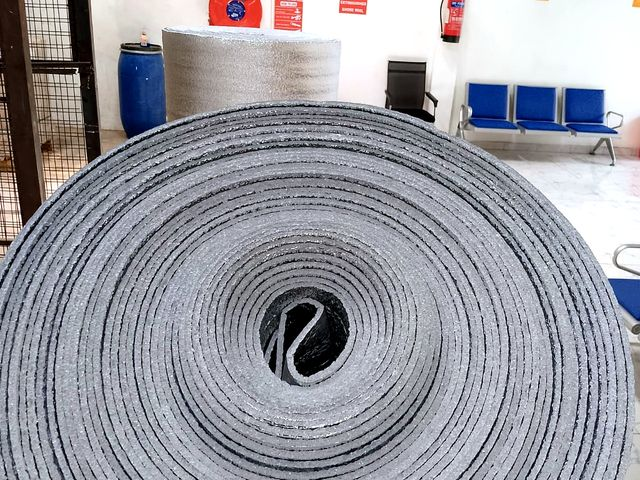
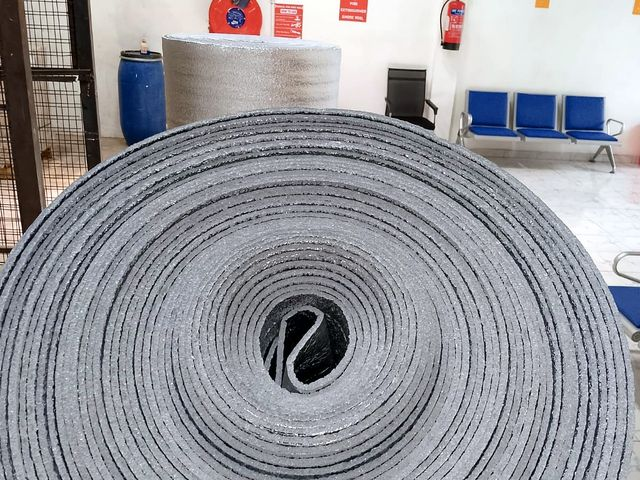
feat(products): rebuild catalogue from KENWORKS PDF with real photos
- Replace 4 generic categories with 6 catalogue-aligned ones (Ceramic Fibre;
  Mineral Wool & Fibreglass; Foam, Roof & Board; Tapes, Foil & Sealants;
  Refractory Bricks & Cements; Acoustic, Safety & Sealing)
- 36 products with accurate catalogue descriptions + technical specs
  (temperature, density, dimensions) and per-product photos extracted from
  the catalogue PDF
- Product type gains image + specs; product cards now render the photo + a
  spec list; featuredProducts + category headers use the new images
- Remove 10 orphaned old product images

Verified: tsc + lint clean, build passes (36 routes), e2e 25 passed

diff --git a/src/lib/site.ts b/src/lib/site.ts
@@ -381,6 +381,8 @@ export type Product = {
   name: string;
   desc: string;
   useCases: string[];
+  image?: string; // /public path to the product photo
+  specs?: string[]; // short technical specs (temperature, density, dimensions)
 };
 
 export type ProductCategory = {
@@ -395,81 +397,110 @@ export type ProductCategory = {
 // Featured product photos (from the materials catalogue) for the products gallery.
 export const featuredProducts: { name: string; image: string }[] = [
   { name: "Ceramic Fibre Blanket", image: "/images/products/ceramic-fibre-blanket.jpg" },
-  { name: "High-Density Rockwool", image: "/images/products/rockwool.jpg" },
-  { name: "Fibreglass Insulation", image: "/images/products/fibreglass.jpg" },
-  { name: "Armaflex Insulation", image: "/images/products/armaflex.jpg" },
-  { name: "Calcium Silicate Boards", image: "/images/products/calcium-silicate.jpg" },
-  { name: "Refractory Fire Bricks", image: "/images/products/fire-bricks.jpg" },
+  { name: "High-Density Rockwool", image: "/images/products/rockwool-roll.jpg" },
+  { name: "Fibreglass Insulation", image: "/images/products/fibreglass-roll.jpg" },
+  { name: "Armaflex Insulation", image: "/images/products/armaflex-sheet.jpg" },
+  { name: "Calcium Silicate Board", image: "/images/products/calcium-silicate-board.jpg" },
+  { name: "40% Alumina Firebricks", image: "/images/products/firebrick-40.jpg" },
+  { name: "Refractory Castable Maxheat-A", image: "/images/products/castable-maxheat-a.jpg" },
   { name: "Polyethylene Roof Insulation", image: "/images/products/pe-roof-insulation.jpg" },
-  { name: "Aluminium & Thermal Tapes", image: "/images/products/aluminium-tape.jpg" },
 ];
 
 export const productCategories: ProductCategory[] = [
   {
-    slug: "thermal-insulation",
-    group: "Thermal Insulation",
-    icon: "shield",
-    image: "/images/products/cat-thermal-insulation.jpg",
-    blurb:
-      "High-performance insulation to control heat, save energy and protect personnel — from boilers and pipework to roofs and ducting.",
-    items: [
-      { name: "Rockwool", desc: "Mineral-wool insulation for high-temperature thermal and acoustic insulation.", useCases: ["Boiler & pipe lagging", "Furnace insulation", "Acoustic walls"] },
-      { name: "Fiberglass", desc: "Glass-wool insulation for thermal and acoustic applications.", useCases: ["Ducting", "Ovens", "Roofs"] },
-      { name: "Ceramic Fiber", desc: "Lightweight high-temperature ceramic fibre insulation up to ~1260°C.", useCases: ["Furnaces", "Kilns", "Heat treatment"] },
-      { name: "Ceramic Fiber Boards", desc: "Rigid ceramic-fibre boards for furnace and kiln linings.", useCases: ["Furnace linings", "Back-up insulation"] },
-      { name: "Ceramic Fiber Blanket", desc: "Flexible ceramic-fibre blanket for high-heat insulation and wrapping.", useCases: ["Furnace wrapping", "Expansion joints"] },
-      { name: "Ceramic Fiber Cloth", desc: "Woven ceramic-fibre cloth for high-temperature gasketing and covers.", useCases: ["Heat shields", "Removable covers"] },
-      { name: "Ceramic Fiber Rope", desc: "Braided ceramic-fibre rope for sealing high-temperature joints.", useCases: ["Furnace door seals", "Boiler seals"] },
-      { name: "Ceramic Fiber Tape", desc: "Ceramic-fibre tape for wrapping pipes and sealing high-heat gaps.", useCases: ["Pipe wrapping", "Joint sealing"] },
-      { name: "Armaflex", desc: "Flexible closed-cell elastomeric insulation for HVAC and refrigeration lines.", useCases: ["Chilled-water pipes", "Refrigeration lines", "Condensation control"] },
-      { name: "Polyethylene Roof Insulation", desc: "Reflective polyethylene foam insulation for roofs and walls.", useCases: ["Roof insulation", "Heat reflection"] },
-      { name: "Styrofoam", desc: "Rigid expanded/extruded polystyrene insulation boards.", useCases: ["Cold rooms", "Wall & roof insulation"] },
-      { name: "Calcium Silicate Boards", desc: "High-temperature, load-bearing calcium-silicate insulation board.", useCases: ["Boiler insulation", "Fire protection", "High-temp pipe support"] },
-      { name: "Acoustic Insulation", desc: "Sound-absorbing insulation for noise control.", useCases: ["Generator rooms", "Plant rooms", "Studios"] },
-      { name: "Vermiculite", desc: "Lightweight mineral used for loose-fill insulation and refractory mixes.", useCases: ["Loose-fill insulation", "Refractory concrete"] },
-      { name: "Thermal Tapes", desc: "High-temperature tapes for wrapping and sealing hot surfaces.", useCases: ["Pipe wrapping", "Heat sealing"] },
-      { name: "Aluminium Tapes", desc: "Foil tapes for sealing and finishing insulation systems.", useCases: ["Vapour sealing", "Insulation finishing"] },
-    ],
-  },
-  {
-    slug: "refractory-high-heat",
-    group: "Refractory & High-Heat",
+    slug: "ceramic-fibre",
+    group: "Ceramic Fibre Insulation",
     icon: "flame",
-    image: "/images/products/cat-refractory-high-heat.jpg",
+    image: "/images/products/cat-ceramic-fibre.jpg",
     blurb:
-      "Refractory materials engineered to withstand extreme heat in furnaces, kilns, boilers and foundries.",
+      "High-purity alumina-silica ceramic fibre for extreme heat — furnaces, kilns and heat-treatment, rated to 1260°C.",
     items: [
-      { name: "Refractory Castables", desc: "Pourable refractory cement for casting furnace and kiln linings.", useCases: ["Furnace linings", "Burner blocks", "Repairs"] },
-      { name: "Refractory Mortars", desc: "High-temperature mortar for laying and bonding refractory bricks.", useCases: ["Brick laying", "Joint sealing"] },
-      { name: "Fire Bricks", desc: "Dense fire-clay bricks for high-temperature furnace and kiln linings.", useCases: ["Furnaces", "Kilns", "Boilers"] },
-      { name: "Acid Resistant Bricks", desc: "Chemically resistant bricks for corrosive and acidic environments.", useCases: ["Chemical plants", "Effluent works", "Linings"] },
-      { name: "Insulating Bricks", desc: "Lightweight insulating fire bricks for back-up and hot-face insulation.", useCases: ["Furnace insulation", "Heat treatment"] },
+      { name: "Ceramic Fibre Blanket", desc: "Flexible, lightweight alumina-silica blanket for high-temperature insulation and wrapping.", specs: ["1260°C", "128 kg/m³", "7620×610×25mm / 3600×610×50mm"], useCases: ["Furnace wrapping", "Kiln insulation", "Expansion joints"], image: "/images/products/ceramic-fibre-blanket.jpg" },
+      { name: "Ceramic Fibre Board", desc: "Rigid alumina-silica panel offering thermal resistance and structural strength.", specs: ["1260°C", "320 kg/m³", "600×300×50mm"], useCases: ["Furnace linings", "Fire protection", "Back-up insulation"], image: "/images/products/ceramic-fibre-board.jpg" },
+      { name: "Non-Asbestos Ceramic Fibre Tape", desc: "Heat-resistant woven tape for wrapping and sealing pipes, flanges and furnace doors.", specs: ["1260°C", "10m × 3mm × 50mm"], useCases: ["Pipe wrapping", "Flange sealing", "Furnace doors"], image: "/images/products/ceramic-fibre-tape.jpg" },
+      { name: "Ceramic Fibre Rope", desc: "Braided round & square rope for sealing high-temperature joints in kilns and stoves.", specs: ["1260°C", "Thickness 6–50mm"], useCases: ["Furnace door seals", "Boiler seals", "Kiln gaskets"], image: "/images/products/ceramic-fibre-rope.jpg" },
+      { name: "Ceramic Fibre Cloth", desc: "Woven fabric (plain or foil-backed) for heat shielding and insulation wrapping.", specs: ["1260°C", "30m × 1m × 3mm"], useCases: ["Heat shields", "Removable covers", "Expansion joints"], image: "/images/products/ceramic-fibre-cloth.jpg" },
+      { name: "Ceramic Fibre Yarn / Thread", desc: "Twisted high-temperature fibre for stitching, gasketing and packing.", specs: ["1260°C"], useCases: ["Stitching insulation", "Gasketing", "Packing"], image: "/images/products/ceramic-fibre-yarn.jpg" },
     ],
   },
   {
-    slug: "sealing-gaskets",
-    group: "Sealing & Gaskets",
+    slug: "mineral-wool-fibreglass",
+    group: "Mineral Wool & Fibreglass",
+    icon: "shield",
+    image: "/images/products/cat-mineral-wool.jpg",
+    blurb:
+      "Non-combustible stone-wool and glass-wool for thermal and acoustic insulation of tanks, pipes, ducts and buildings.",
+    items: [
+      { name: "Rockwool Rolls / Blankets", desc: "Flexible basalt stone-wool roll (mesh-reinforced) for high-temperature pipe, tank and duct insulation.", specs: ["1000°C", "100 kg/m³", "6m×1m×50mm / 3m×1m×75/100mm"], useCases: ["Pipe & tank lagging", "Duct insulation", "Acoustic walls"], image: "/images/products/rockwool-roll.jpg" },
+      { name: "Rockwool Batts / Slabs", desc: "Rigid stone-wool panels for thermal, acoustic and fire protection in walls, roofs and plant.", specs: ["1000°C", "50 kg/m³", "1.2m×0.6m×50/100mm"], useCases: ["Walls & roofs", "Fire protection", "Industrial equipment"], image: "/images/products/rockwool-batt.jpg" },
+      { name: "Preformed Rockwool Pipe Sections", desc: "Rigid cylindrical stone-wool sections for hot and cold pipe insulation.", specs: ["1000°C", "150 kg/m³", "Bore ½–6in, 25/50mm wall"], useCases: ["Steam pipes", "Chilled pipes", "Process lines"], image: "/images/products/rockwool-pipe.jpg" },
+      { name: "Fibreglass Rolls / Blankets", desc: "Lightweight glass-wool roll for thermal and acoustic insulation of roofs, ducting and HVAC.", specs: ["350–450°C", "24 kg/m³", "20m/10m × 1.2m × 50/100mm"], useCases: ["Roofing", "HVAC ducting", "Walls"], image: "/images/products/fibreglass-roll.jpg" },
+      { name: "Fibreglass Batts / Slabs", desc: "Pre-cut glass-fibre panels for efficient thermal and acoustic insulation.", specs: ["350–450°C", "32 kg/m³", "1.2m×0.6m×50/100mm"], useCases: ["Walls & ceilings", "Partitions", "HVAC"], image: "/images/products/fibreglass-batt.jpg" },
+    ],
+  },
+  {
+    slug: "foam-roof-board",
+    group: "Foam, Roof & Board Insulation",
+    icon: "shield",
+    image: "/images/products/cat-foam-board.jpg",
+    blurb:
+      "Elastomeric foam, roof insulation and rigid boards for condensation control, energy savings and fire-rated insulation.",
+    items: [
+      { name: "Armaflex Insulation Sheet / Roll", desc: "Closed-cell elastomeric foam with built-in vapour barrier for condensation control on HVAC and chilled lines.", specs: ["-40 to 120°C", "80 kg/m³", "8m×1m×25mm / 10m×1m×19mm"], useCases: ["Chilled-water pipes", "Refrigeration", "Condensation control"], image: "/images/products/armaflex-sheet.jpg" },
+      { name: "Armaflex with Foil & Adhesive", desc: "Foil-laminated, self-adhesive elastomeric foam for superior heat reflection and quick installation.", specs: ["-40 to 120°C", "Foil + adhesive backing"], useCases: ["Duct wrap", "Radiant heat reflection", "Pipe insulation"], image: "/images/products/armaflex-foil.jpg" },
+      { name: "Styrofoam (EPS) Sheets", desc: "Lightweight expanded-polystyrene board and flexible foam for cold rooms, roofs and packaging.", specs: ["1.2m × 1.2m / 4ft × 4ft", "½–4in thickness"], useCases: ["Cold rooms", "Roofs & walls", "Expansion joint filler"], image: "/images/products/styrofoam.jpg" },
+      { name: "Polyethylene Roof Insulation", desc: "Double-laminated reflective PE foam — a radiant barrier and moisture barrier for roofs and metal structures.", specs: ["Double laminated", "40m×1.5m×2/3mm / 50m×1.2m×10mm"], useCases: ["Metal roofs", "Warehouses", "Cold storage"], image: "/images/products/pe-roof-insulation.jpg" },
+      { name: "Calcium Silicate Boards", desc: "Rigid, load-bearing silica-lime board with high fire resistance and dimensional stability.", specs: ["1000°C", "230 kg/m³", "600×300×50mm"], useCases: ["Furnace linings", "Boiler insulation", "Pipe & wall panels"], image: "/images/products/calcium-silicate-board.jpg" },
+      { name: "Asbestos-Free Millboards", desc: "Compressed mineral-fibre panels for high-temperature insulation in furnaces, fire doors and boilers.", specs: ["Up to 1100°C", "1m×1m × 3–12mm"], useCases: ["Furnace linings", "Fire doors", "Heat containment"], image: "/images/products/asbestos-millboard.jpg" },
+    ],
+  },
+  {
+    slug: "tapes-foil-sealants",
+    group: "Tapes, Foil & Sealants",
     icon: "wrench",
-    image: "/images/products/cat-sealing-gaskets.jpg",
+    image: "/images/products/cat-tapes-sealants.jpg",
     blurb:
-      "Industrial sealing solutions for pumps, valves, flanges and steam systems operating under heat and pressure.",
+      "Thermal and waterproof tapes, reflective foil and fire-rated sealants for finishing and sealing insulation systems.",
     items: [
-      { name: "PTFE Packing", desc: "Chemically inert PTFE gland packing for pumps and valves.", useCases: ["Pump glands", "Valve stems", "Chemical service"] },
-      { name: "Kevlar Packing", desc: "Tough aramid (Kevlar) packing for abrasive and high-pressure duties.", useCases: ["Slurry pumps", "Abrasive media"] },
-      { name: "Metallic Steam Gaskets", desc: "Spiral-wound and metallic gaskets for high-pressure steam flanges.", useCases: ["Steam flanges", "Boilers", "High-pressure joints"] },
-      { name: "Industrial Sealants", desc: "High-temperature and industrial sealants for joints and assemblies.", useCases: ["Flange sealing", "Gasketing", "Assembly"] },
+      { name: "Aluminium Insulation Thermal Tape", desc: "High-temperature foil tape for thermal insulation, heat shielding and sealing hot surfaces.", specs: ['2" × 18m and 3" × 18m'], useCases: ["Pipe wrapping", "Heat sealing", "Duct finishing"], image: "/images/products/aluminium-thermal-tape.jpg" },
+      { name: "Butyl Waterproof Sealing Tape", desc: "Self-adhesive butyl-rubber tape for waterproofing, air sealing and moisture protection on most surfaces.", specs: ["5m × 5cm and 10m × 10cm"], useCases: ["Roof sealing", "Joint waterproofing", "Air sealing"], image: "/images/products/butyl-waterproof-tape.jpg" },
+      { name: "Aluminium Foil FSK", desc: "Reflective foil facing reinforced with fibreglass scrim and kraft paper — an effective vapour barrier.", specs: ["100m × 1.2m wide"], useCases: ["HVAC duct facing", "Roof & wall vapour barrier", "Radiant barrier"], image: "/images/products/aluminium-foil-fsk.jpg" },
+      { name: "Somafix Fire Sealant", desc: "Fire-rated silicone sealant for sealing joints, gaps and penetrations under high heat.", specs: ["Heat resistance 1500°C"], useCases: ["Fire-stopping", "Expansion joints", "Glazing & doors"], image: "/images/products/somafix-sealant.jpg" },
+      { name: "Somafix PU Foam", desc: "Fire-retardant expanding polyurethane foam for filling, sealing and insulating voids and cavities.", specs: ["Fire-retardant (B2)"], useCases: ["Gap filling", "Sealing cavities", "Thermal & acoustic insulation"], image: "/images/products/somafix-foam.jpg" },
     ],
   },
   {
-    slug: "safety-industrial",
-    group: "Safety & Industrial",
-    icon: "bolt",
-    image: "/images/products/cat-safety-industrial.jpg",
+    slug: "refractory",
+    group: "Refractory Bricks & Cements",
+    icon: "flame",
+    image: "/images/products/cat-refractory.jpg",
     blurb:
-      "Industrial safety and ancillary materials that keep plant rooms compliant and personnel protected.",
+      "Firebricks and refractory cements for lining furnaces, kilns, boilers and incinerators above 1000°C.",
     items: [
-      { name: "Electrical Rubber Mats", desc: "Insulating rubber matting for switchrooms and electrical panels.", useCases: ["Switchrooms", "Panel rooms", "Substations"] },
-      { name: "Industrial Insulation Materials", desc: "A broad range of related industrial insulation and protection materials.", useCases: ["General industrial insulation", "Custom requirements"] },
+      { name: "40% Alumina Firebricks", desc: "Balanced-grade fireclay bricks for furnace linings and general high-temperature applications.", specs: ["1600°C", "Standard / Side & End Arch / Slab / Split", "230×115×75mm"], useCases: ["Furnace linings", "Kilns", "Boilers"], image: "/images/products/firebrick-40.jpg" },
+      { name: "70% Alumina Firebricks", desc: "High-alumina bricks with strong slag and chemical resistance and high load-bearing strength.", specs: ["1750–1800°C", "230×115×75mm", "5.2 kg"], useCases: ["Steel furnaces", "Incinerators", "Severe-duty kilns"], image: "/images/products/firebrick-70.jpg" },
+      { name: "Zirconia Firebricks", desc: "Zirconium-oxide bricks for the highest thermal and chemical resistance in glass and steel furnaces.", specs: ["2000°C", "230×115×38mm", "2.2 kg"], useCases: ["Glass furnaces", "Steel ladles", "High-temp kilns"], image: "/images/products/firebrick-zirconia.jpg" },
+      { name: "Insulating Firebricks", desc: "Lightweight, low-density bricks with low thermal conductivity to cut heat loss.", specs: ["230×115×75mm", "2 kg"], useCases: ["Furnaces & kilns", "Pizza ovens", "Chimneys"], image: "/images/products/firebrick-insulating.jpg" },
+      { name: "Refractory Castable — Maxheat-A", desc: "High-performance 90% alumina castable cement for lining furnaces, kilns and incinerators.", specs: ["1750°C", "90% Al₂O₃", "25 kg bag"], useCases: ["Furnace linings", "Monolithic casting", "Repairs"], image: "/images/products/castable-maxheat-a.jpg" },
+      { name: "Refractory Castable — Maxheat-K", desc: "Medium-duty 60% alumina castable with good strength and abrasion resistance.", specs: ["1600°C", "60% Al₂O₃", "25 kg bag"], useCases: ["Kiln & furnace lining", "Fireplaces", "General repairs"], image: "/images/products/castable-maxheat-k.jpg" },
+      { name: "Refractory Mortar — Maxset 50 Fine", desc: "Heat-resistant alumina-fireclay mortar for bonding firebricks and refractory components.", specs: ["1500°C", "25 kg bag"], useCases: ["Brick laying", "Jointing", "Furnace repairs"], image: "/images/products/mortar-maxset-50.jpg" },
+      { name: "Insulating Castable — Maxlyte 11", desc: "Lightweight insulating refractory cement for continuous use up to 1300°C with low heat loss.", specs: ["1300°C", "25 kg bag"], useCases: ["Hot-face insulation", "Kiln lining", "Energy saving"], image: "/images/products/castable-maxlyte-11.jpg" },
+      { name: "Fondu Castable — Max-50", desc: "Fast-setting calcium-aluminate (CAC) cement for rapid kiln repairs and industrial flooring.", specs: ["1000°C", "25 kg bag"], useCases: ["Rapid kiln repairs", "Furnace flooring", "Early-strength linings"], image: "/images/products/castable-fondu-max-50.jpg" },
+    ],
+  },
+  {
+    slug: "acoustic-safety",
+    group: "Acoustic, Safety & Sealing",
+    icon: "bolt",
+    image: "/images/products/cat-acoustic-safety.jpg",
+    blurb:
+      "Acoustic insulation, electrical safety matting, steam gaskets and loose-fill vermiculite for plant rooms and panels.",
+    items: [
+      { name: "Knauf Acoustic Insulation Roll", desc: "High-performance glass-wool roll for superior sound absorption and thermal insulation.", specs: ["16 kg/m³", "13.5m × 1.2m × 50mm"], useCases: ["Walls & ceilings", "Partitions", "Plant rooms"], image: "/images/products/knauf-acoustic-roll.jpg" },
+      { name: "Acoustic Foam Wedges & Panels", desc: "Open-cell foam wedges and fabric panels that absorb sound and reduce echo and reverberation.", specs: ["Wedges 30×30×50mm (12/box)", "Panels 1.2m×0.6m×50mm"], useCases: ["Studios", "Offices", "Quiet rooms"], image: "/images/products/acoustic-foam-wedges.jpg" },
+      { name: "H.V Electrical Rubber Mats", desc: "Duratuf ASTM-D178 insulating matting that protects personnel from electric shock in switchrooms.", specs: ["Class 0–4 (10–50kV)", "1m × 1m, 3.2–12.7mm", "10m rolls"], useCases: ["Substations", "Switchrooms", "Control rooms"], image: "/images/products/rubber-mat.jpg" },
+      { name: "Steel Metallic Steam Gaskets", desc: "Superlite-5000 metallic gasket sheet for high-pressure, high-temperature steam flanges.", specs: ["500–650°C", "1500×1000mm", "1.5–6mm"], useCases: ["Steam flanges", "Boilers", "High-pressure joints"], image: "/images/products/steam-gasket.jpg" },
+      { name: "Vermiculite (Exfoliated)", desc: "Lightweight, non-combustible loose-fill mineral for fireproofing and high-temperature linings.", specs: ["Up to 1100°C", "Medium & Large grade", "10 kg bags"], useCases: ["Loose-fill insulation", "Fireproofing", "Refractory mixes"], image: "/images/products/vermiculite.jpg" },
     ],
   },
 ];

diff --git a/src/app/products/page.tsx b/src/app/products/page.tsx
@@ -153,23 +153,49 @@ export default function ProductsPage() {
             <div className="mt-10 grid gap-5 sm:grid-cols-2 lg:grid-cols-3">
               {cat.items.map((p, i) => (
                 <Reveal key={p.name} delay={(i % 3) * 0.05}>
-                  <article className="flex h-full flex-col rounded-xl border border-steel-200 bg-white p-5">
-                    <h3 className="font-display text-lg font-semibold uppercase tracking-wide text-steel-900">
-                      {p.name}
-                    </h3>
-                    <p className="mt-2 flex-1 text-sm leading-relaxed text-steel-600">
-                      {p.desc}
-                    </p>
-                    <ul className="mt-4 flex flex-wrap gap-1.5">
-                      {p.useCases.map((u) => (
-                        <li
-                          key={u}
-                          className="rounded-full bg-steel-100 px-2.5 py-1 font-mono text-[0.65rem] uppercase tracking-wider text-steel-600"
-                        >
-                          {u}
-                        </li>
-                      ))}
-                    </ul>
+                  <article className="flex h-full flex-col overflow-hidden rounded-xl border border-steel-200 bg-white">
+                    {p.image && (
+                      <div className="relative aspect-[4/3] overflow-hidden border-b border-steel-100 bg-steel-100">
+                        <Image
+                          src={p.image}
+                          alt={p.name}
+                          fill
+                          sizes="(max-width: 640px) 100vw, (max-width: 1024px) 50vw, 33vw"
+                          className="object-cover transition-transform duration-300 hover:scale-105"
+                        />
+                      </div>
+                    )}
+                    <div className="flex flex-1 flex-col p-5">
+                      <h3 className="font-display text-lg font-semibold uppercase tracking-wide text-steel-900">
+                        {p.name}
+                      </h3>
+                      <p className="mt-2 flex-1 text-sm leading-relaxed text-steel-600">
+                        {p.desc}
+                      </p>
+                      {p.specs && p.specs.length > 0 && (
+                        <dl className="mt-3 space-y-1 border-t border-steel-100 pt-3">
+                          {p.specs.map((s) => (
+                            <dd
+                              key={s}
+                              className="flex items-start gap-2 font-mono text-xs text-steel-700"
+                            >
+                              <span className="mt-0.5 h-1.5 w-1.5 shrink-0 rounded-full bg-heat-500" aria-hidden="true" />
+                              {s}
+                            </dd>
+                          ))}
+                        </dl>
+                      )}
+                      <ul className="mt-4 flex flex-wrap gap-1.5">
+                        {p.useCases.map((u) => (
+                          <li
+                            key={u}
+                            className="rounded-full bg-steel-100 px-2.5 py-1 font-mono text-[0.65rem] uppercase tracking-wider text-steel-600"
+                          >
+                            {u}
+                          </li>
+                        ))}
+                      </ul>
+                    </div>
                   </article>
                 </Reveal>
               ))}